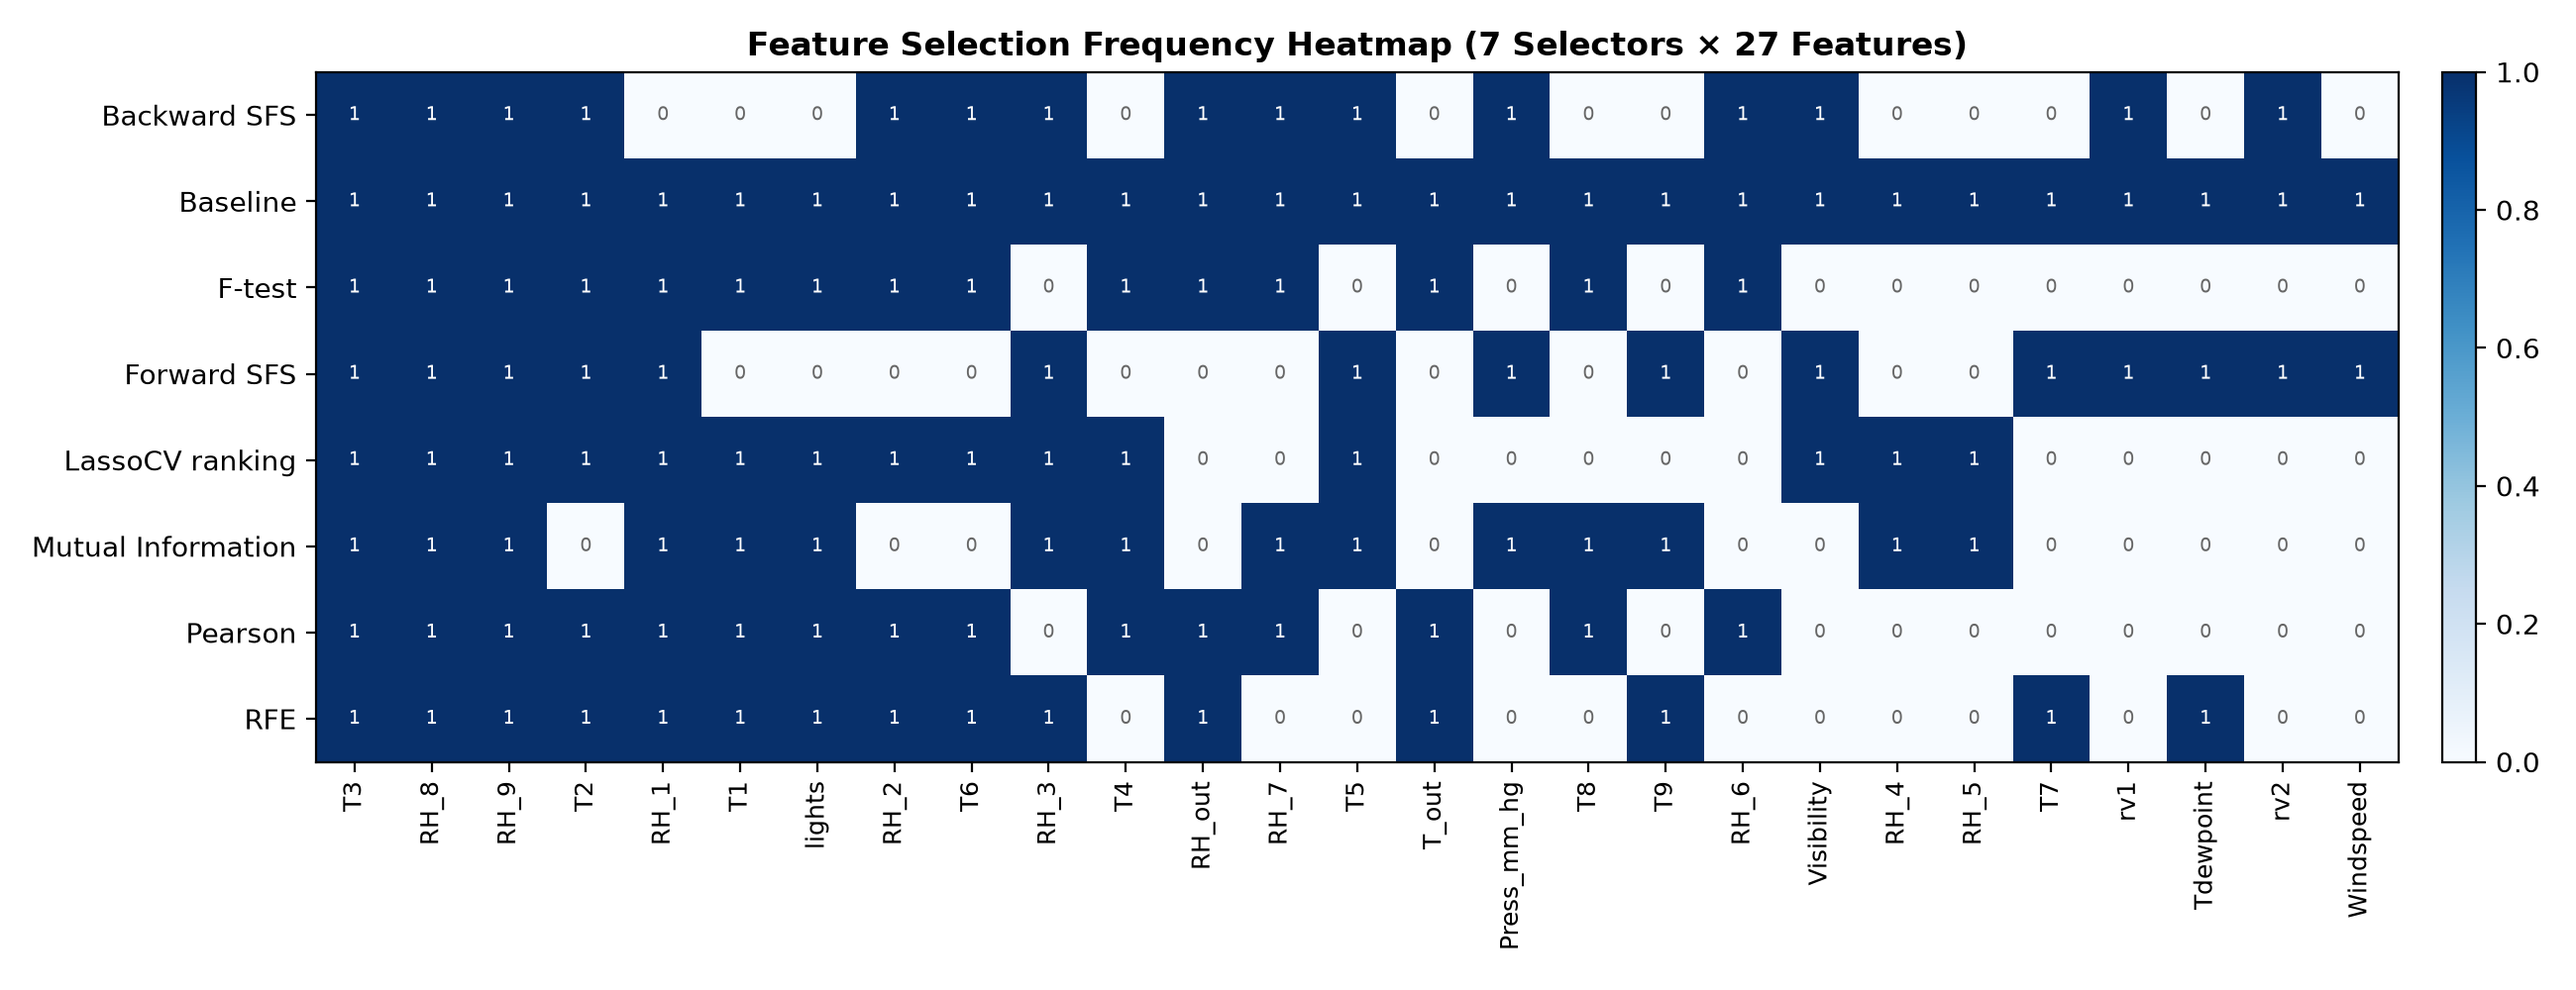
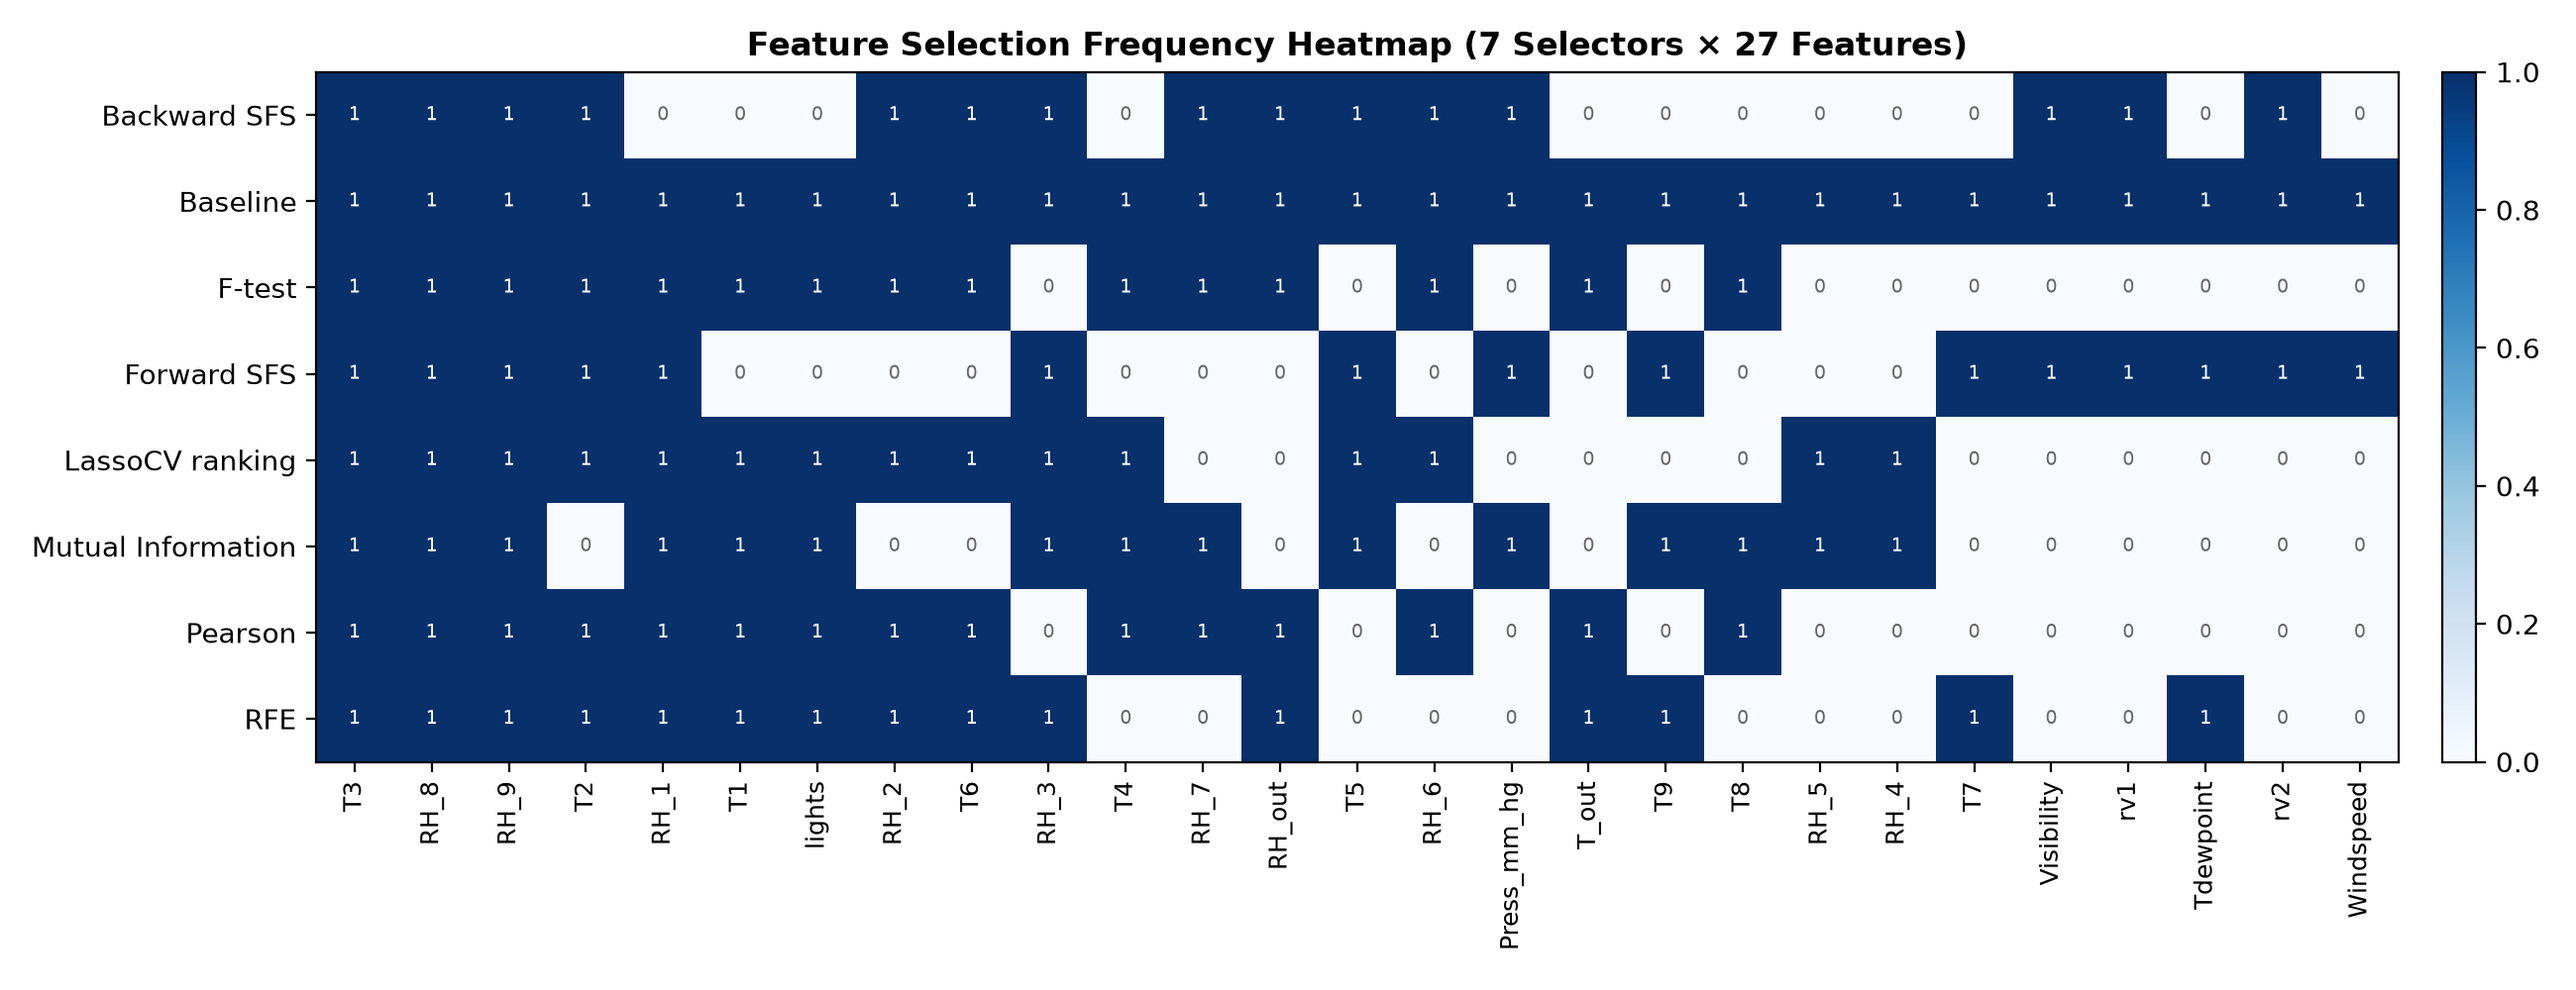
fix: eliminate CV leakage and serialize reproducible model bundle

diff --git a/src/feature_selection.py b/src/feature_selection.py
@@ -1,16 +1,16 @@
-"""CRISP-DM Phase 4: Feature Selection Modules.
+"""CRISP-DM Phase 4: Feature Selection Modules (Zero CV Leakage Refined).
 
 Provides 7 feature selection methods + 1 baseline:
 1. Pearson correlation ranking (top K) - Filter
 2. F-test / SelectKBest (top K) - Filter
 3. Mutual Information (top K) - Filter (fitted on standardized data)
 4. Recursive Feature Elimination - RFE (top K) - Wrapper (fitted on standardized data)
-5. Forward Sequential Feature Selection - Forward SFS (top K) - Wrapper (TimeSeriesSplit CV)
-6. Backward Sequential Feature Selection - Backward SFS (top K) - Wrapper (TimeSeriesSplit CV)
-7. LassoCV coefficient ranking (top K) - Embedded (fitted on standardized data with TimeSeriesSplit)
+5. Forward Sequential Feature Selection - Forward SFS (top K) - Wrapper (Leak-free TimeSeriesSplit CV)
+6. Backward Sequential Feature Selection - Backward SFS (top K) - Wrapper (Leak-free TimeSeriesSplit CV)
+7. LassoCV coefficient ranking (top K) - Embedded (Leak-free TimeSeriesSplit CV with fold-by-fold scaling)
 8. Baseline (all 27 features, passthrough)
 
-All selectors include leakage-safe median imputation and appropriate standardization.
+All CV folds strictly fit Imputer and Scaler on their respective training fold indices only.
 """
 from __future__ import annotations
 
@@ -20,6 +20,7 @@ import pandas as pd
 from sklearn.base import BaseEstimator, TransformerMixin
 from sklearn.impute import SimpleImputer
 from sklearn.preprocessing import StandardScaler
+from sklearn.pipeline import Pipeline
 from sklearn.feature_selection import (
     RFE,
     SequentialFeatureSelector,
@@ -27,8 +28,9 @@ from sklearn.feature_selection import (
     mutual_info_regression,
     r_regression,
 )
-from sklearn.linear_model import LassoCV, LinearRegression
+from sklearn.linear_model import Lasso, LinearRegression
 from sklearn.model_selection import TimeSeriesSplit
+from sklearn.metrics import mean_squared_error
 
 
 class PearsonTopK(BaseEstimator, TransformerMixin):
@@ -141,7 +143,16 @@ class RFETopK(BaseEstimator, TransformerMixin):
 
 
 class SFSTopK(BaseEstimator, TransformerMixin):
-    """Sequential Feature Selector (Forward or Backward) with TimeSeriesSplit and standardized inputs."""
+    """Sequential Feature Selector (Forward or Backward) with leak-free TimeSeriesSplit CV.
+    
+    Uses an internal pipeline:
+    Pipeline([
+        ("imputer", SimpleImputer(strategy="median")),
+        ("scaler", StandardScaler()),
+        ("regressor", LinearRegression())
+    ])
+    ensuring each fold in TimeSeriesSplit independently fits its own Imputer and Scaler.
+    """
 
     def __init__(self, k: int = 15, direction: str = "forward", cv_splits: int = 3):
         self.k = k
@@ -149,18 +160,22 @@ class SFSTopK(BaseEstimator, TransformerMixin):
         self.cv_splits = cv_splits
 
     def fit(self, X, y):
-        imp = SimpleImputer(strategy="median")
-        scaler = StandardScaler()
-        X_scaled = scaler.fit_transform(imp.fit_transform(np.asarray(X)))
+        X_arr = np.asarray(X)
         y_arr = np.asarray(y).ravel()
+        # Internal pipeline guarantees imputer & scaler are fitted strictly on each CV fold train slice
+        fold_pipeline = Pipeline([
+            ("imputer", SimpleImputer(strategy="median")),
+            ("scaler", StandardScaler()),
+            ("regressor", LinearRegression()),
+        ])
         sfs = SequentialFeatureSelector(
-            estimator=LinearRegression(),
+            estimator=fold_pipeline,
             n_features_to_select=self.k,
             direction=self.direction,
             cv=TimeSeriesSplit(n_splits=self.cv_splits),
             n_jobs=1,
         )
-        sfs.fit(X_scaled, y_arr)
+        sfs.fit(X_arr, y_arr)
         self.support_ = sfs.support_
         return self
 
@@ -175,7 +190,10 @@ class SFSTopK(BaseEstimator, TransformerMixin):
 
 
 class LassoCVTopK(BaseEstimator, TransformerMixin):
-    """Rank predictors by standardized LassoCV coefficient magnitude |coef_i| using TimeSeriesSplit."""
+    """Rank predictors by standardized Lasso coefficient magnitude using leak-free TimeSeriesSplit CV.
+
+    Each fold independently fits SimpleImputer and StandardScaler on the fold training split only.
+    """
 
     def __init__(self, k: int = 15, cv_splits: int = 3, max_iter: int = 10000, random_state: int = 42):
         self.k = k
@@ -184,20 +202,38 @@ class LassoCVTopK(BaseEstimator, TransformerMixin):
         self.random_state = random_state
 
     def fit(self, X, y):
-        imp = SimpleImputer(strategy="median")
-        scaler = StandardScaler()
-        X_scaled = scaler.fit_transform(imp.fit_transform(np.asarray(X)))
+        X_arr = np.asarray(X)
         y_arr = np.asarray(y).ravel()
-        self.estimator_ = LassoCV(
-            cv=TimeSeriesSplit(n_splits=self.cv_splits),
-            max_iter=self.max_iter,
-            random_state=self.random_state,
-            alphas=50,
-        )
-        self.estimator_.fit(X_scaled, y_arr)
+        alphas = np.logspace(-3, 1, 30)
+        tscv = TimeSeriesSplit(n_splits=self.cv_splits)
+        cv_errors = np.zeros(len(alphas))
+
+        # Fold-by-fold cross-validation without preprocessing leakage
+        for train_idx, val_idx in tscv.split(X_arr):
+            imp = SimpleImputer(strategy="median")
+            scaler = StandardScaler()
+            X_tr = scaler.fit_transform(imp.fit_transform(X_arr[train_idx]))
+            y_tr = y_arr[train_idx]
+            X_va = scaler.transform(imp.transform(X_arr[val_idx]))
+            y_va = y_arr[val_idx]
+            for i, a in enumerate(alphas):
+                m = Lasso(alpha=a, max_iter=self.max_iter, random_state=self.random_state)
+                m.fit(X_tr, y_tr)
+                pred = m.predict(X_va)
+                cv_errors[i] += mean_squared_error(y_va, pred)
+
+        self.best_alpha_ = float(alphas[np.argmin(cv_errors)])
+
+        # Final fit on the complete training set with full imputer + scaler
+        imp_full = SimpleImputer(strategy="median")
+        scaler_full = StandardScaler()
+        X_full_scaled = scaler_full.fit_transform(imp_full.fit_transform(X_arr))
+        self.estimator_ = Lasso(alpha=self.best_alpha_, max_iter=self.max_iter, random_state=self.random_state)
+        self.estimator_.fit(X_full_scaled, y_arr)
+
         self.importances_ = np.abs(self.estimator_.coef_)
         top = np.argsort(-self.importances_, kind="stable")[: self.k]
-        self.support_ = np.zeros(X_scaled.shape[1], dtype=bool)
+        self.support_ = np.zeros(X_arr.shape[1], dtype=bool)
         self.support_[top] = True
         return self
 

diff --git a/test_reproducibility.py b/test_reproducibility.py
@@ -1,0 +1,157 @@
+"""Model Reproducibility Verification Test.
+
+Task 4 verification:
+1. Load best_model.joblib and extract bundle metadata.
+2. Confirm ordered selected features match pipeline input expectations.
+3. Re-run inference on test partition with identical feature ordering.
+4. Verify predictions match outputs/metrics/test_predictions.csv.
+5. Reconstruct 95% Conformal Prediction Intervals and verify consistency.
+6. Report maximum absolute discrepancies for point predictions and intervals.
+"""
+
+import json
+from pathlib import Path
+import urllib.request
+import joblib
+import numpy as np
+import pandas as pd
+
+PROJECT_ROOT = Path(__file__).resolve().parent
+MODEL_PATH = PROJECT_ROOT / "outputs" / "best_model.joblib"
+METADATA_PATH = PROJECT_ROOT / "outputs" / "metrics" / "best_model_metadata.json"
+PREDICTIONS_PATH = PROJECT_ROOT / "outputs" / "metrics" / "test_predictions.csv"
+DATA_PATH = PROJECT_ROOT / "data" / "energydata_complete.csv"
+RAW_DATA_URL = (
+    "https://raw.githubusercontent.com/LuisM78/"
+    "Appliances-energy-prediction-for-regression-analysis/master/energydata_complete.csv"
+)
+
+
+def ensure_dataset():
+    """Ensure energydata_complete.csv is available locally."""
+    if not DATA_PATH.exists():
+        DATA_PATH.parent.mkdir(parents=True, exist_ok=True)
+        print(f"Dataset not found locally. Downloading from {RAW_DATA_URL} ...")
+        urllib.request.urlretrieve(RAW_DATA_URL, DATA_PATH)
+        print("Download complete.")
+    return pd.read_csv(DATA_PATH)
+
+
+def run_reproducibility_test():
+    print("=" * 70)
+    print("Starting Model Reproducibility Verification Test (Task 4)")
+    print("=" * 70)
+
+    # 1. Load model bundle
+    assert MODEL_PATH.exists(), f"Model file not found: {MODEL_PATH}"
+    print(f"[1/5] Loading bundle from: {MODEL_PATH}")
+    bundle = joblib.load(MODEL_PATH)
+
+    required_keys = [
+        "model",
+        "selected_features",
+        "candidate_features",
+        "feature_selection",
+        "loss_function",
+        "conformal_half_width",
+    ]
+    for key in required_keys:
+        assert key in bundle, f"Missing key in bundle: '{key}'"
+
+    model = bundle["model"]
+    selected_features = bundle["selected_features"]
+    half_width = bundle["conformal_half_width"]
+    winner_selector = bundle["feature_selection"]
+    winner_loss = bundle["loss_function"]
+
+    print(f"      Best Configuration : {winner_selector} × {winner_loss}")
+    print(f"      Selected Features  : {len(selected_features)} features")
+    print(f"      Ordered List       : {selected_features}")
+    print(f"      Conformal Half-W   : ±{half_width:.4f} Wh")
+
+    # 2. Check metadata consistency
+    print("\n[2/5] Validating against best_model_metadata.json...")
+    assert METADATA_PATH.exists(), f"Metadata not found: {METADATA_PATH}"
+    with open(METADATA_PATH, "r", encoding="utf-8") as f:
+        metadata = json.load(f)
+
+    assert metadata["selected_features"] == selected_features, (
+        "Selected features order in metadata does not match bundle!"
+    )
+    assert np.isclose(metadata["conformal_half_width"], half_width), (
+        "Conformal half-width does not match metadata!"
+    )
+    print("      Metadata consistency verified.")
+
+    # 3. Load dataset and reproduce test split
+    print(f"\n[3/5] Loading dataset from: {DATA_PATH}")
+    df = ensure_dataset()
+    n = len(df)
+    n_train = int(0.55 * n)
+    n_val = int(0.15 * n)
+    n_cal = int(0.15 * n)
+    split_test = n_train + n_val + n_cal
+
+    df_test = df.iloc[split_test:].copy()
+    y_test = df_test["Appliances"].to_numpy(dtype=float)
+    X_test = df_test[selected_features]
+
+    print(f"      Total samples: {n:,}")
+    print(f"      Test partition: {len(df_test):,} samples (rows {split_test} to {n})")
+    print(f"      Feature matrix shape: {X_test.shape}")
+
+    # 4. Generate predictions with identical feature ordering
+    print("\n[4/5] Generating predictions with serialized pipeline...")
+    y_pred_reproduced = model.predict(X_test)
+
+    # Reconstruct 95% prediction interval
+    lower_raw = y_pred_reproduced - half_width
+    upper_raw = y_pred_reproduced + half_width
+    lower_95pi = np.clip(lower_raw, 0, None)
+    upper_95pi = upper_raw
+
+    # 5. Compare with test_predictions.csv
+    print(f"\n[5/5] Comparing against recorded: {PREDICTIONS_PATH}")
+    assert PREDICTIONS_PATH.exists(), f"Predictions file not found: {PREDICTIONS_PATH}"
+    recorded_preds = pd.read_csv(PREDICTIONS_PATH)
+
+    assert len(recorded_preds) == len(y_pred_reproduced), (
+        f"Row count mismatch: recorded {len(recorded_preds)} vs reproduced {len(y_pred_reproduced)}"
+    )
+
+    pred_abs_diff = np.abs(recorded_preds["predicted"].to_numpy() - y_pred_reproduced)
+    max_pred_diff = float(np.max(pred_abs_diff))
+    mean_pred_diff = float(np.mean(pred_abs_diff))
+
+    lower_abs_diff = np.abs(recorded_preds["lower_95PI"].to_numpy() - lower_95pi)
+    max_lower_diff = float(np.max(lower_abs_diff))
+
+    upper_abs_diff = np.abs(recorded_preds["upper_95PI"].to_numpy() - upper_95pi)
+    max_upper_diff = float(np.max(upper_abs_diff))
+
+    coverage_reproduced = float(np.mean((y_test >= lower_95pi) & (y_test <= upper_95pi)))
+
+    print("=" * 70)
+    print("VERIFICATION RESULTS & ACCEPTANCE METRICS")
+    print("=" * 70)
+    print(f"  Maximum Absolute Discrepancy (Predicted y) : {max_pred_diff:.2e} Wh")
+    print(f"  Mean Absolute Discrepancy (Predicted y)    : {mean_pred_diff:.2e} Wh")
+    print(f"  Maximum Discrepancy (Lower 95% PI)         : {max_lower_diff:.2e} Wh")
+    print(f"  Maximum Discrepancy (Upper 95% PI)         : {max_upper_diff:.2e} Wh")
+    print(f"  Reconstructed 95% PI Empirical Coverage   : {coverage_reproduced * 100:.2f}%")
+    print(f"  Recorded Test 95% PI Coverage in Metadata : {metadata['test_metrics']['interval_coverage'] * 100:.2f}%")
+
+    tolerance = 1e-9
+    assert max_pred_diff < tolerance, f"Prediction discrepancy {max_pred_diff} exceeds tolerance {tolerance}!"
+    assert max_lower_diff < tolerance, f"Lower PI discrepancy {max_lower_diff} exceeds tolerance {tolerance}!"
+    assert max_upper_diff < tolerance, f"Upper PI discrepancy {max_upper_diff} exceeds tolerance {tolerance}!"
+    assert np.isclose(coverage_reproduced, metadata["test_metrics"]["interval_coverage"]), "Coverage mismatch!"
+
+    print("-" * 70)
+    print(">>> ALL REPRODUCIBILITY CHECKS PASSED (discrepancy < 1e-9). <<<")
+    print("=" * 70)
+    return True
+
+
+if __name__ == "__main__":
+    run_reproducibility_test()

diff --git a/src/run_experiments.py b/src/run_experiments.py
@@ -174,10 +174,6 @@ def run(data_path: Path = DATA_PATH):
     final_pipeline = build_loss_pipeline(final_regressor)
     final_pipeline.fit(X_train_val[final_features], y_train_val)
 
-    # Save best model to joblib
-    joblib.dump(final_pipeline, BEST_MODEL_PATH)
-    print(f"Saved serialized best model: {BEST_MODEL_PATH}")
-
     # Calibrate on Calibration set
     print("\n[6/7] Calibrating 95% Conformal Prediction Interval on Calibration set...")
     y_cal_pred = final_pipeline.predict(X_cal[final_features])
@@ -189,6 +185,58 @@ def run(data_path: Path = DATA_PATH):
     test_metrics = compute_metrics(y_test, y_test_pred)
     coverage, mean_width, lower_95, upper_95 = evaluate_intervals(y_test, y_test_pred, half_width)
     lower_95_clipped = np.maximum(0.0, lower_95)  # Physical energy >= 0
+
+    # Task 2: Complete Model Bundle (Must be created after calibration)
+    bundle = {
+        "model": final_pipeline,
+        "selected_features": list(final_features),
+        "candidate_features": list(features),
+        "feature_selection": winner_selector,
+        "loss_function": winner_loss,
+        "conformal_half_width": float(half_width),
+        "target": TARGET,
+        "validation_metrics": {
+            "RMSE": float(best_row["RMSE"]),
+            "MAE": float(best_row["MAE"]),
+            "R2": float(best_row["R2"]),
+        },
+        "test_metrics": {
+            "RMSE": float(test_metrics["RMSE"]),
+            "MAE": float(test_metrics["MAE"]),
+            "R2": float(test_metrics["R2"]),
+            "interval_coverage": float(coverage),
+            "mean_interval_width": float(mean_width),
+        },
+    }
+    joblib.dump(bundle, BEST_MODEL_PATH)
+    print(f"Saved complete serialized best model bundle: {BEST_MODEL_PATH}")
+
+    # Output best_model_metadata.json
+    metadata = {
+        "best_model_name": f"{winner_selector} × {winner_loss}",
+        "feature_selection": winner_selector,
+        "loss_function": winner_loss,
+        "selected_features": list(final_features),
+        "candidate_features": list(features),
+        "conformal_half_width": float(half_width),
+        "target": TARGET,
+        "validation_metrics": {
+            "RMSE": float(best_row["RMSE"]),
+            "MAE": float(best_row["MAE"]),
+            "R2": float(best_row["R2"]),
+        },
+        "test_metrics": {
+            "RMSE": float(test_metrics["RMSE"]),
+            "MAE": float(test_metrics["MAE"]),
+            "R2": float(test_metrics["R2"]),
+            "interval_coverage": float(coverage),
+            "mean_interval_width": float(mean_width),
+        },
+    }
+    metadata_json_path = METRICS_DIR / "best_model_metadata.json"
+    with open(metadata_json_path, "w", encoding="utf-8") as f:
+        json.dump(metadata, f, indent=2, ensure_ascii=False)
+    print(f"Saved best model metadata JSON: {metadata_json_path}")
 
     print("\n" + "=" * 75)
     print("🎯 Untouched Final Test Set Performance:")
